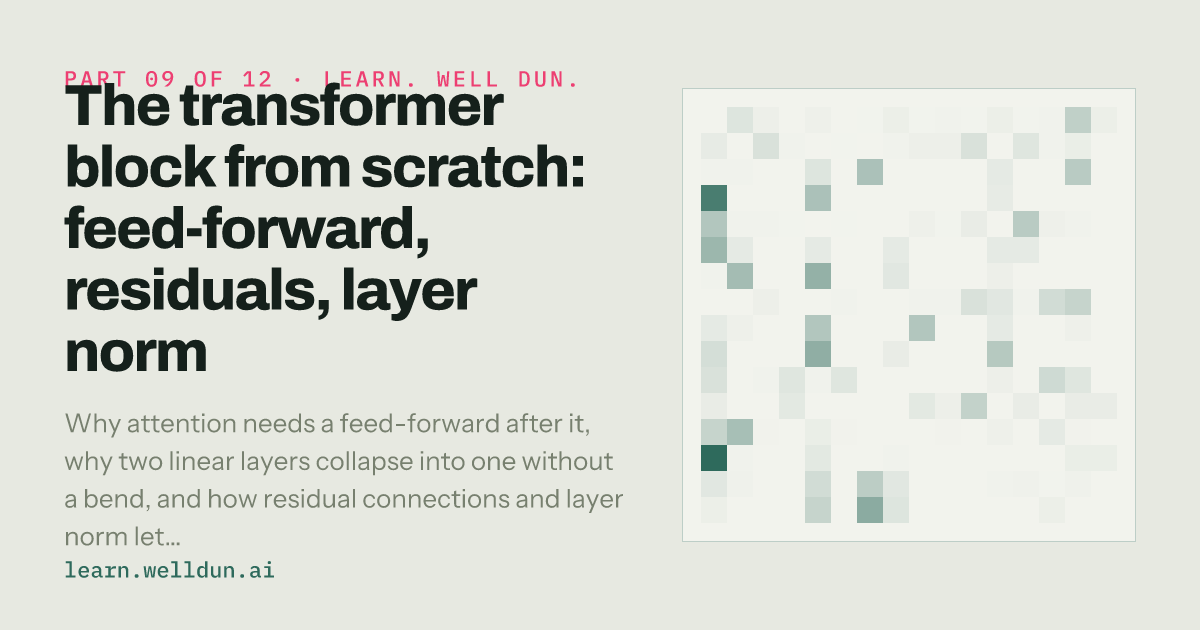
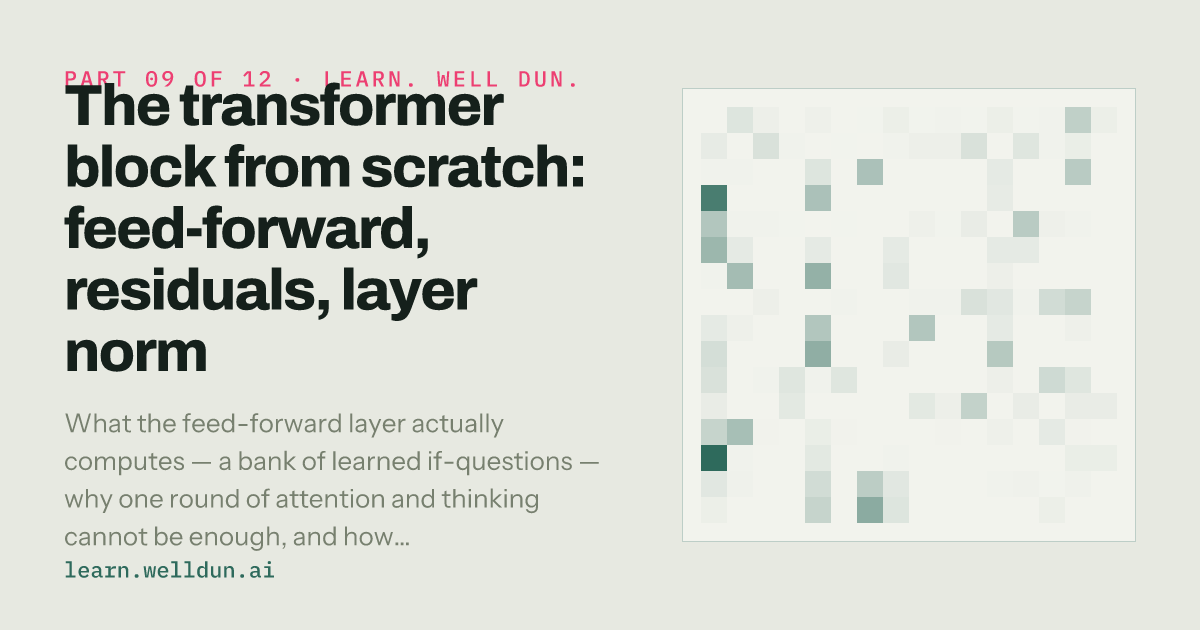
Part 09 rethought: ifs that fire, and why once is not enough
Two intuition holes. "Thinking" was a metaphor with no mechanism — the page
said widen, bend, narrow back and never said what that computes. And stacking
was defended before it was wanted: the survival machinery arrived with no
reason to go deep at all.

Now the feed-forward is built from one checkable idea: max(w·x, 0) is an if
that fires in proportion to the match and stays silent otherwise, shown on a
pencil-sized table; the layer is 128 of these plus each unit's contribution
when it fires; and the bend's necessity follows — delete it and every if
becomes always, which collapses to one matrix. A new section motivates depth:
one round collects facts, only the next can collect conclusions, walked on
the it-was-soft sentence from the attention part. The survival story
(replace dies at 0.0001, add drifts to 108, tidy holds 1.00) then answers a
problem the reader has already bought.

Lab cell two now opens with the single if-unit before the bank.

diff --git a/src/labs/block.ts b/src/labs/block.ts
@@ -45,15 +45,20 @@ heads = [make_head(C // HEADS) for _ in range(HEADS)]
 print("gathered:", multi_head(x, heads).shape)`,
   },
   {
-    title: "think alone",
-    lead: "Each position, alone at its desk, working out what its gathered vector means. No position sees another here — that is attention's job, exclusively.",
-    code: `H = 4 * C     # the middle is conventionally four times wider
+    title: "one if, then a bank of them",
+    lead: "A single middle unit is an if: it fires in proportion to how well the gathered vector matches its pattern, and stays silent otherwise. The feed-forward is 128 of these asking at once, each adding its contribution if it fired. No position sees another here — that is attention's job, exclusively.",
+    code: `w = np.array([1.0, -1.0])                  # one learned pattern
+for probe in ([0.8, -0.6], [-0.8, 0.6], [0.5, 0.5]):
+    z = float(np.dot(probe, w))
+    print(f"{str(probe):>13}  raw {z:+.1f}   after the bend {max(z, 0.0):.1f}")
 
-W1 = rng.normal(0, 1/np.sqrt(C), (C, H))
-W2 = rng.normal(0, 1/np.sqrt(H), (H, C))   # opposite direction: back down
+H = 4 * C     # the bank: conventionally four times the model width
+
+W1 = rng.normal(0, 1/np.sqrt(C), (C, H))   # 128 patterns, one per column
+W2 = rng.normal(0, 1/np.sqrt(H), (H, C))   # each unit's contribution if it fires
 
 def feed_forward(z):
-    return np.maximum(z @ W1, 0) @ W2      # widen, bend, narrow back
+    return np.maximum(z @ W1, 0) @ W2
 
 print("in :", x.shape, " out:", feed_forward(x).shape)
 
